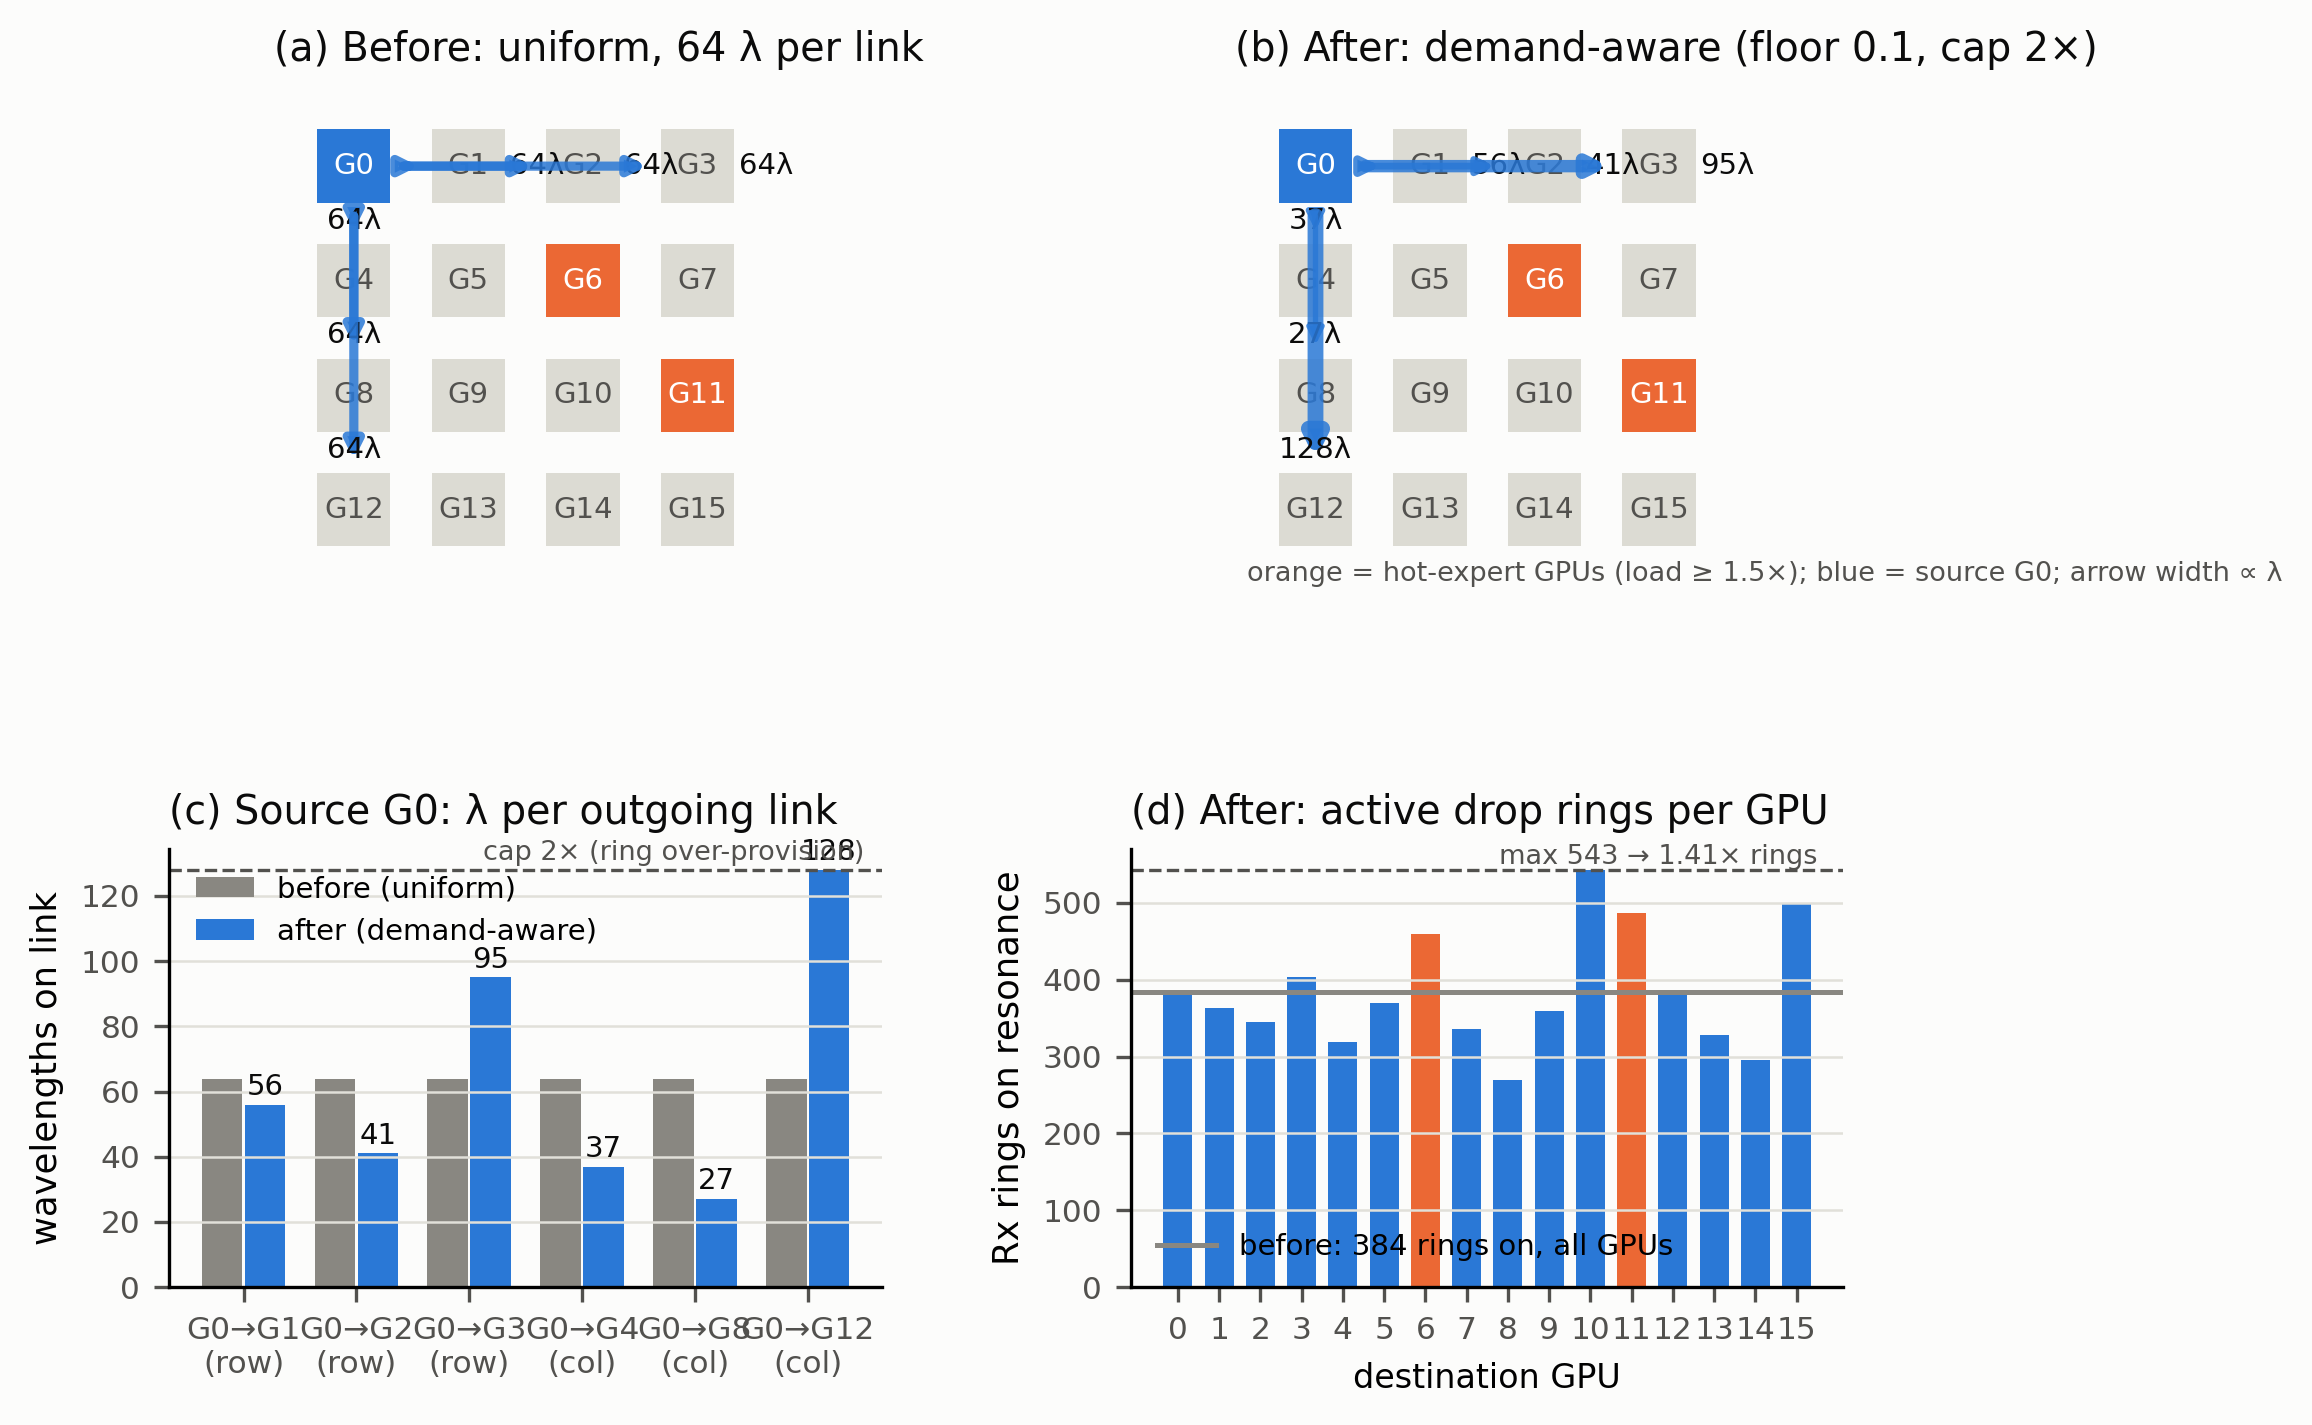
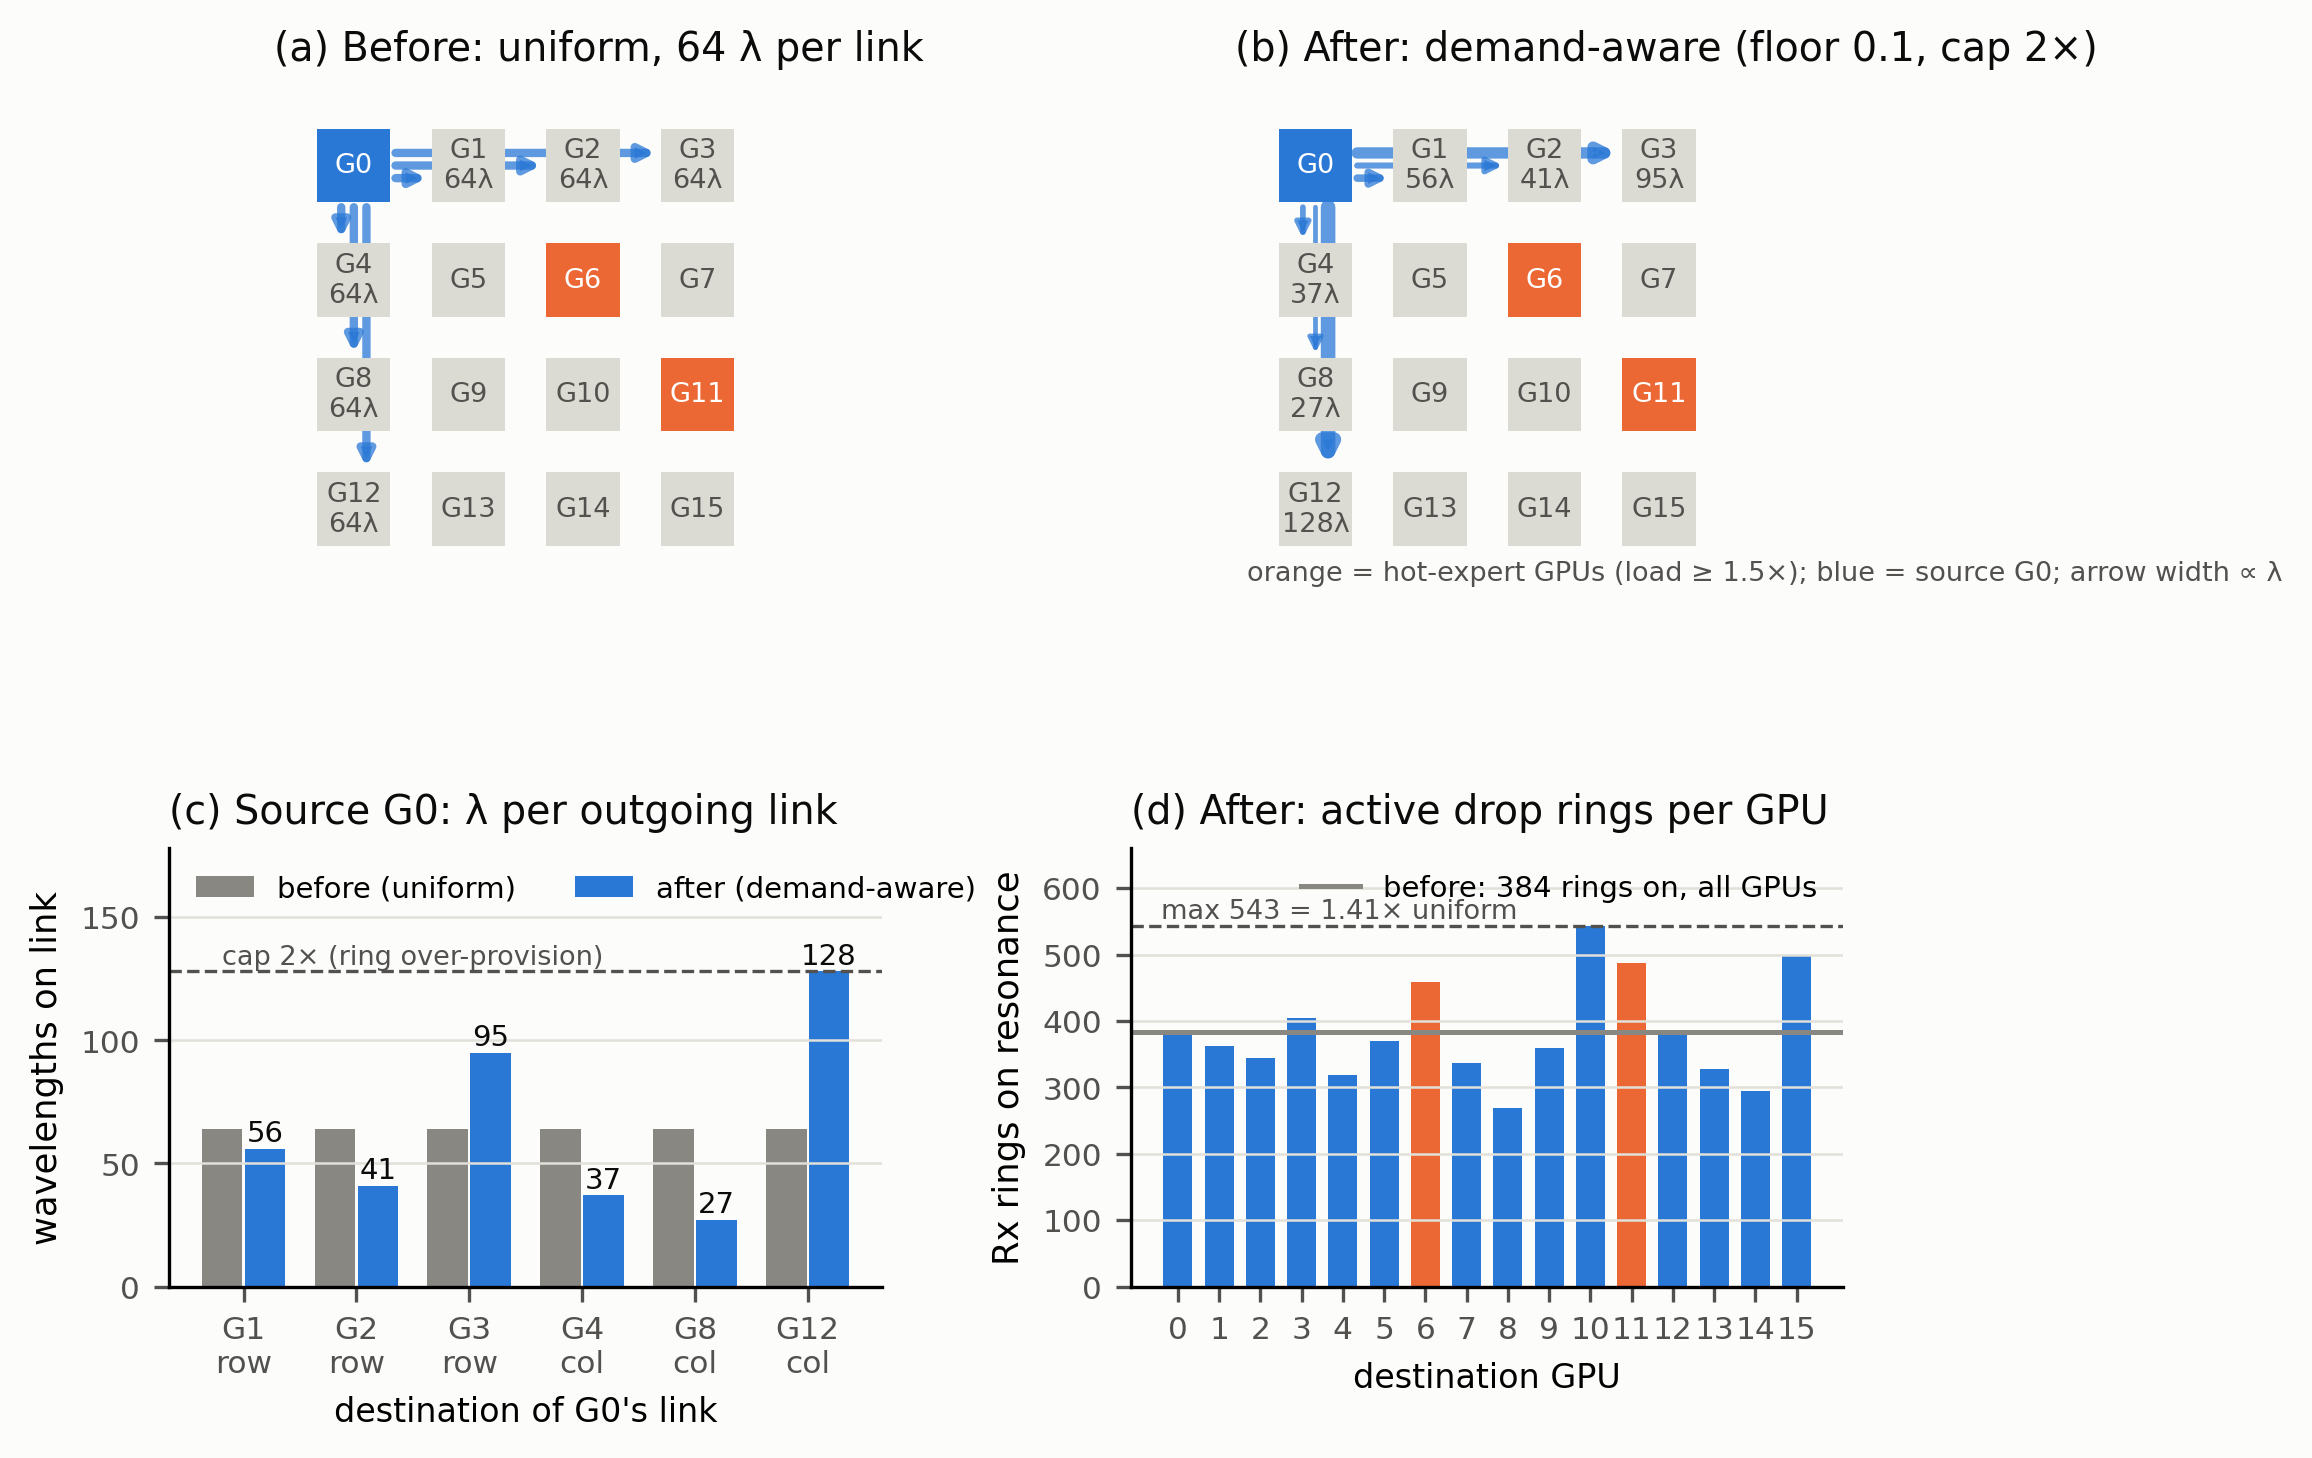
thermal_pic: reassignment figure — labels inside destination boxes, offset arrows, no legend/cap collisions
Claude-Session: https://claude.ai/code/session_01BSvUHQEiYf4YfxrL9opaYG

diff --git a/thermal_pic/plot_lambda_reassign.py b/thermal_pic/plot_lambda_reassign.py
@@ -91,22 +91,28 @@ def draw_wafer(ax, lam, title):
     ax.set_aspect("equal")
     ax.axis("off")
     ax.set_title(title, fontsize=9.5, color=INK, loc="left")
+    sx, sy = col(SRC), ROWS - 1 - row(SRC)
+    # arrows first (behind the boxes); nearer destinations get a small lateral offset so the
+    # three row (column) arrows do not lie on top of each other
+    for v, l in lam.items():
+        x, y = col(v), ROWS - 1 - row(v)
+        k = (abs(x - sx) + abs(y - sy))          # 1, 2, 3 hops away
+        off = 0.11 * (k - 2)
+        if col(v) != sx:
+            p0, p1 = (sx, sy + off), (x, y + off)
+        else:
+            p0, p1 = (sx + off, sy), (x + off, y)
+        ax.add_patch(FancyArrowPatch(p0, p1, arrowstyle="-|>", mutation_scale=7,
+                                     shrinkA=10, shrinkB=10, linewidth=0.5 + 3.0 * l / 128,
+                                     color=BLUE, alpha=0.75, zorder=1))
     for g in range(N):
         x, y = col(g), ROWS - 1 - row(g)
         hot = loadf[g] >= 1.5
         fc = ORANGE if hot else ("#dcdbd3" if g != SRC else BLUE)
-        ax.add_patch(Rectangle((x - 0.32, y - 0.32), 0.64, 0.64, facecolor=fc, edgecolor="none"))
-        ax.text(x, y, f"G{g}", ha="center", va="center", fontsize=7,
+        ax.add_patch(Rectangle((x - 0.32, y - 0.32), 0.64, 0.64, facecolor=fc, edgecolor="none", zorder=2))
+        label = f"G{g}\n{lam[g]}λ" if g in lam else f"G{g}"
+        ax.text(x, y, label, ha="center", va="center", fontsize=6.5, zorder=3,
                 color="white" if (hot or g == SRC) else SEC_INK)
-    sx, sy = col(SRC), ROWS - 1 - row(SRC)
-    for v, l in lam.items():
-        x, y = col(v), ROWS - 1 - row(v)
-        ax.add_patch(FancyArrowPatch((sx, sy), (x, y), arrowstyle="-|>", mutation_scale=8,
-                                     shrinkA=12, shrinkB=12, linewidth=0.6 + 3.2 * l / 128,
-                                     color=BLUE, alpha=0.85, zorder=3))
-        ax.text(x + (0.36 if col(v) != sx else 0.0), y + (0.0 if col(v) != sx else 0.40),
-                f"{l}λ", fontsize=7, color=INK, ha="left" if col(v) != sx else "center",
-                va="center" if col(v) != sx else "bottom")
 
 
 ax0 = fig.add_subplot(gs[0, 0])
@@ -125,12 +131,14 @@ ax2.bar([x + 0.19 for x in xs], [after[v] for v in dests], width=0.36, color=BLU
 for x, v in zip(xs, dests):
     ax2.text(x + 0.19, after[v] + 3, str(after[v]), ha="center", fontsize=7, color=INK)
 ax2.axhline(CAP * UNIFORM, color=SEC_INK, linewidth=0.8, linestyle="--")
-ax2.text(len(dests) - 0.5, CAP * UNIFORM + 3, "cap 2× (ring over-provision)", fontsize=6.5, color=SEC_INK, ha="right")
+ax2.text(1.5, CAP * UNIFORM + 3, "cap 2× (ring over-provision)", fontsize=6.5, color=SEC_INK, ha="center")
+ax2.set_ylim(0, 178)
 ax2.set_xticks(list(xs))
-ax2.set_xticklabels([f"G0→G{v}\n({'row' if row(v) == row(SRC) else 'col'})" for v in dests], fontsize=7)
+ax2.set_xticklabels([f"G{v}\n{'row' if row(v) == row(SRC) else 'col'}" for v in dests], fontsize=7)
+ax2.set_xlabel("destination of G0's link", fontsize=8)
 ax2.set_ylabel("wavelengths on link", fontsize=8.5)
 ax2.set_title("(c) Source G0: λ per outgoing link", fontsize=9.5, color=INK, loc="left")
-ax2.legend(frameon=False, fontsize=7, loc="upper left")
+ax2.legend(frameon=False, fontsize=7, loc="upper left", ncol=2)
 ax2.grid(True, axis="y", color=GRID, linewidth=0.6)
 for s in ("top", "right"):
     ax2.spines[s].set_visible(False)
@@ -143,14 +151,15 @@ xs = range(N)
 ax3.bar(list(xs), rx_after, width=0.7, color=[ORANGE if loadf[g] >= 1.5 else BLUE for g in range(N)])
 ax3.axhline(384, color=MUTED, linewidth=1.2, label="before: 384 rings on, all GPUs")
 ax3.axhline(max(rx_after), color=SEC_INK, linewidth=0.8, linestyle="--")
-ax3.text(N - 0.5, max(rx_after) + 8, f"max {max(rx_after)} → {max(rx_after)/384:.2f}× rings", fontsize=6.5,
-         color=SEC_INK, ha="right")
+ax3.text(-0.4, max(rx_after) + 12, f"max {max(rx_after)} = {max(rx_after)/384:.2f}× uniform", fontsize=6.5,
+         color=SEC_INK, ha="left")
 ax3.set_xticks(list(xs))
 ax3.set_xticklabels([str(g) for g in range(N)], fontsize=6.5)
 ax3.set_xlabel("destination GPU", fontsize=8)
 ax3.set_ylabel("Rx rings on resonance", fontsize=8.5)
 ax3.set_title("(d) After: active drop rings per GPU", fontsize=9.5, color=INK, loc="left")
-ax3.legend(frameon=False, fontsize=7, loc="lower left")
+ax3.set_ylim(0, 660)
+ax3.legend(frameon=False, fontsize=7, loc="upper right")
 ax3.grid(True, axis="y", color=GRID, linewidth=0.6)
 for s in ("top", "right"):
     ax3.spines[s].set_visible(False)
